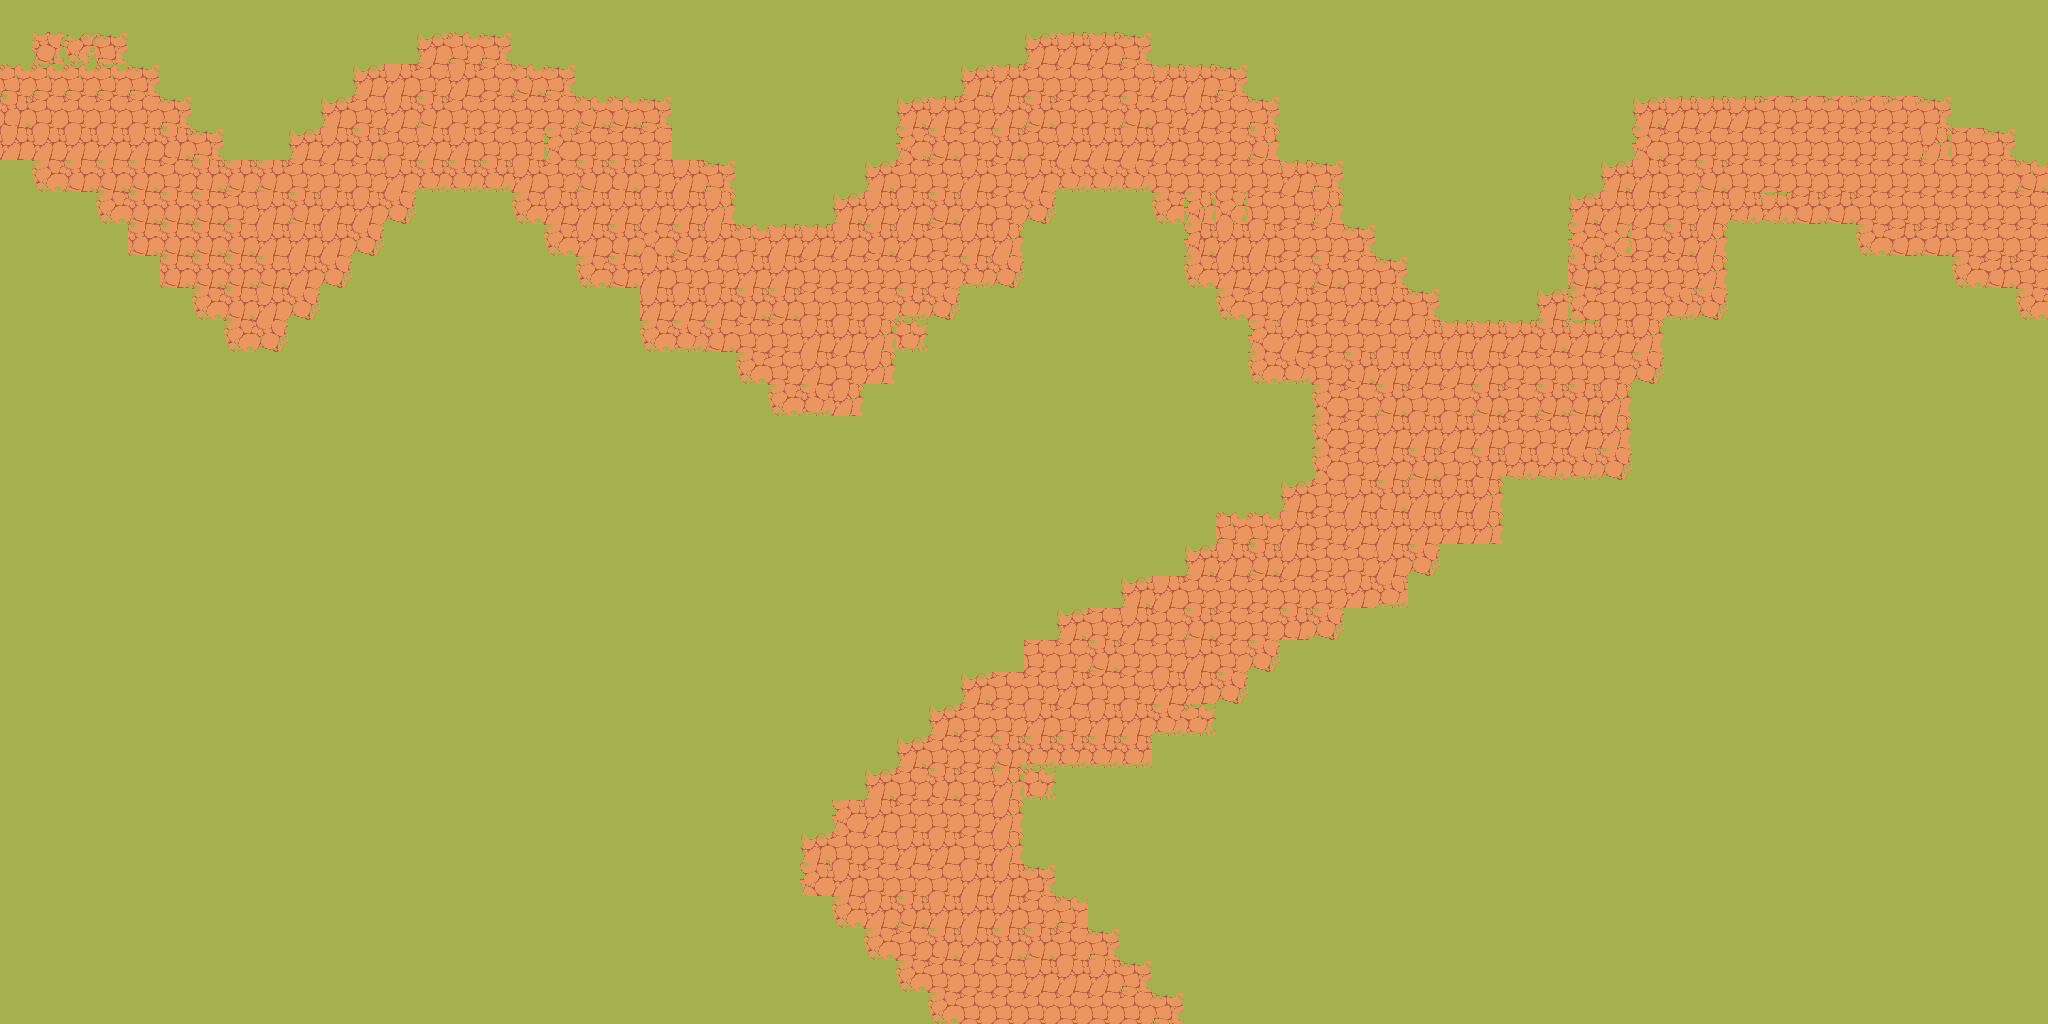
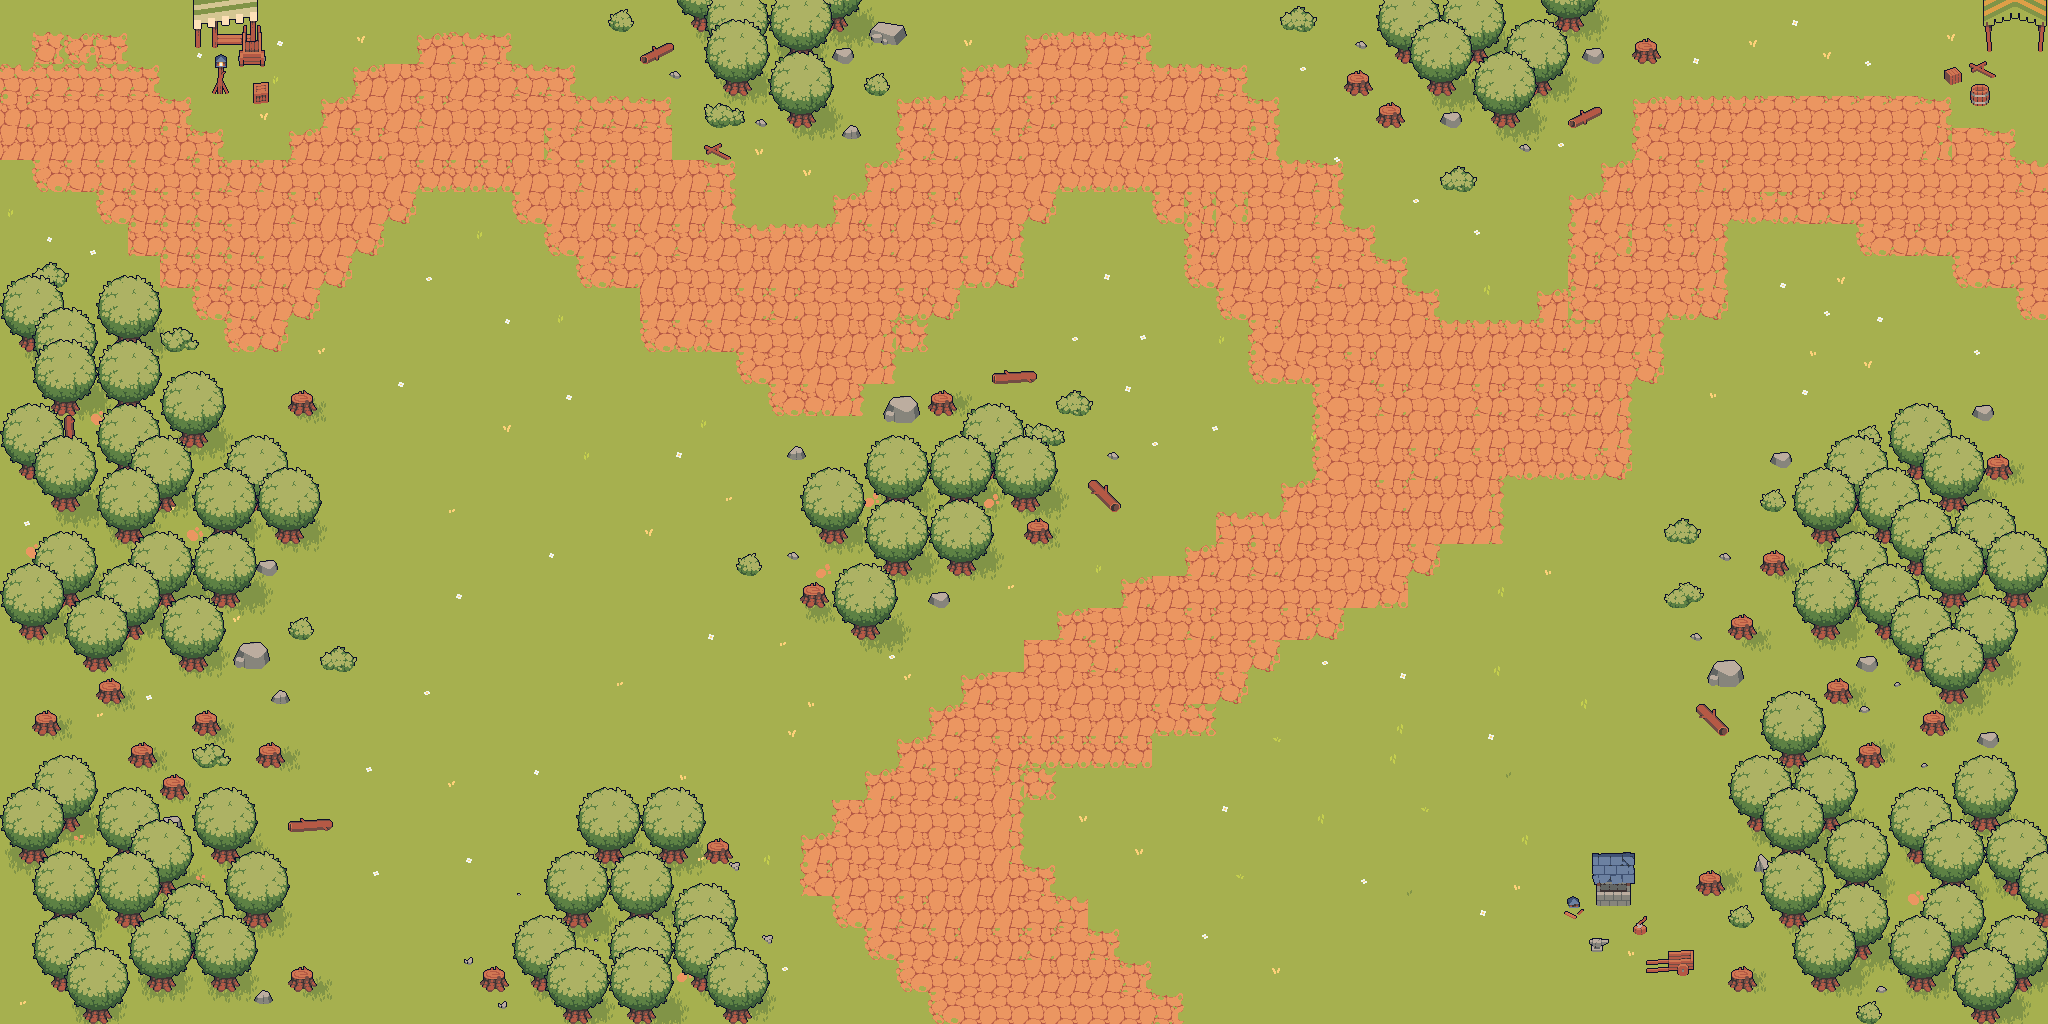
Add scroll and change background

diff --git a/GameBasic/src/my_game/Score.java b/GameBasic/src/my_game/Score.java
@@ -18,9 +18,9 @@ public class Score {
         this.lifeRemaining = maxInvadersPassed - invadersPassed;
 
         // Create a TextLabel to display the score
-        scoreText = new TextLabel("scoreDisplay", "Life remaining: " + lifeRemaining + "/" + maxInvadersPassed, posX, posY);
-        scoreText.setColor(Color.WHITE); // Color must be before setFontSize
-        scoreText.setFontSize(25);
+        scoreText = new TextLabel("scoreDisplay", "Life: " + lifeRemaining + "/" + maxInvadersPassed, posX, posY);
+        scoreText.setColor(Color.BLACK); // Color must be before setFontSize
+        scoreText.setFontSize(20);
         scoreText.setzOrder(10);
     }
 

diff --git a/GameBasic/src/my_base/MyGame.java b/GameBasic/src/my_base/MyGame.java
@@ -7,6 +7,7 @@ import base.GameCanvas;
 import base.GameContent;
 import base.GameDashboard;
 import my_game.GameObject;
+import shapes.Image;
 
 public class MyGame extends Game {
 	
@@ -35,6 +36,9 @@ public class MyGame extends Game {
 		// Add slowDown button to canvas
 		content.slowDownButton().addToCanvas();
 		content.slowDownButton().disableButton();
+
+		Image scroll = new Image("scroll", "resources/tiles/scroll.png", 533, 300, -110, 710);
+		canvas.addShape(scroll);
 
 		// Add all init characters to canvas
 		for (GameObject gameObject : content.getAllGameObjects()) {

diff --git a/GameBasic/src/my_game/WaveStatus.java b/GameBasic/src/my_game/WaveStatus.java
@@ -15,7 +15,7 @@ public class WaveStatus {
         this.currentWave = 0;
         this.totalWaves = totalWaves;
         waveStatusText = new TextLabel("waveStatusDisplay", "Wave: " + currentWave + "/" + totalWaves, posX, posY);
-        waveStatusText.setColor(Color.WHITE);  // Must be before setFontSize
+        waveStatusText.setColor(Color.BLACK);  // Must be before setFontSize
         waveStatusText.setFontSize(20);
         waveStatusText.setzOrder(10);
     }

diff --git a/GameBasic/src/my_base/MyContent.java b/GameBasic/src/my_base/MyContent.java
@@ -46,9 +46,9 @@ public class MyContent extends GameContent{
 		gameControl = new GameControl(this);
 
 		// Status texts
-		score = new Score(10, 70, 850);
-		coins = new Coins(290, 70, 900);
-		waveStatus = new WaveStatus(7, 70, 800);
+		score = new Score(10, 80, 850);
+		coins = new Coins(290, 80, 900);
+		waveStatus = new WaveStatus(7, 80, 800);
 		
 		// Buttons
 		startWaveButton = new StartWaveButton("startWaveButton", 1700, 800, gameControl);

diff --git a/GameBasic/src/my_game/Coins.java b/GameBasic/src/my_game/Coins.java
@@ -22,7 +22,7 @@ public class Coins {
 
         // Create a TextLabel to display the coins
         coinsText = new TextLabel("coinsDisplay", "Coins: " + currentCoins, posX, posY);
-        coinsText.setColor(Color.WHITE); // Color must be before setFontSize
+        coinsText.setColor(Color.BLACK); // Color must be before setFontSize
         coinsText.setFontSize(20);
         coinsText.setzOrder(10);
     }
